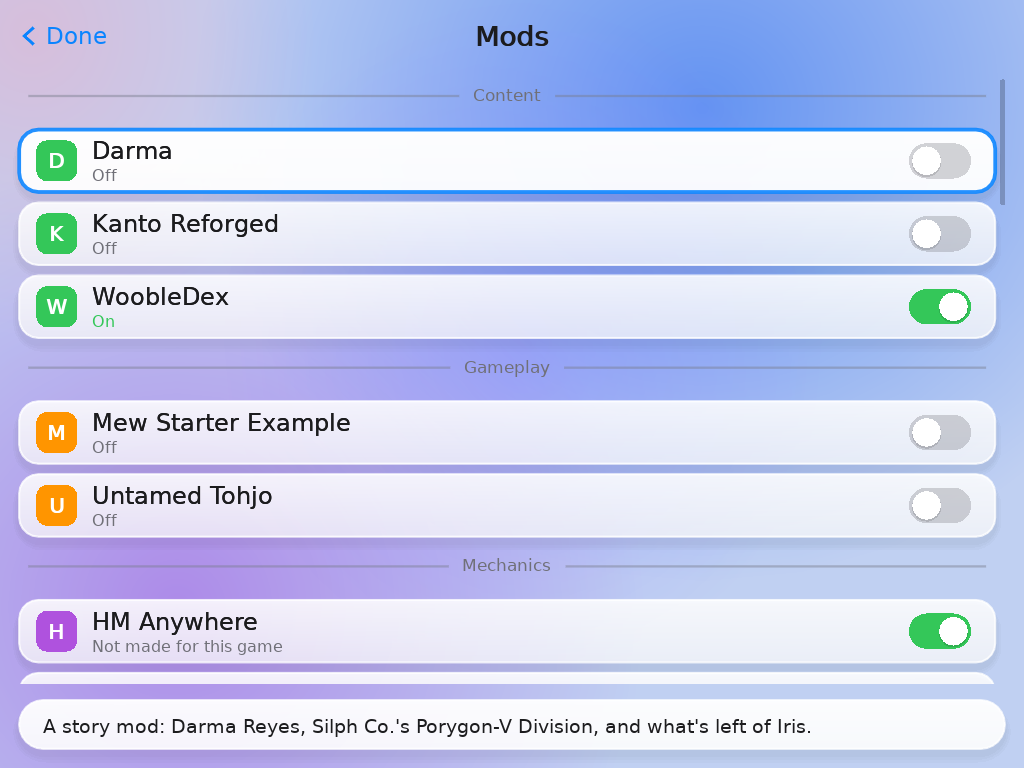
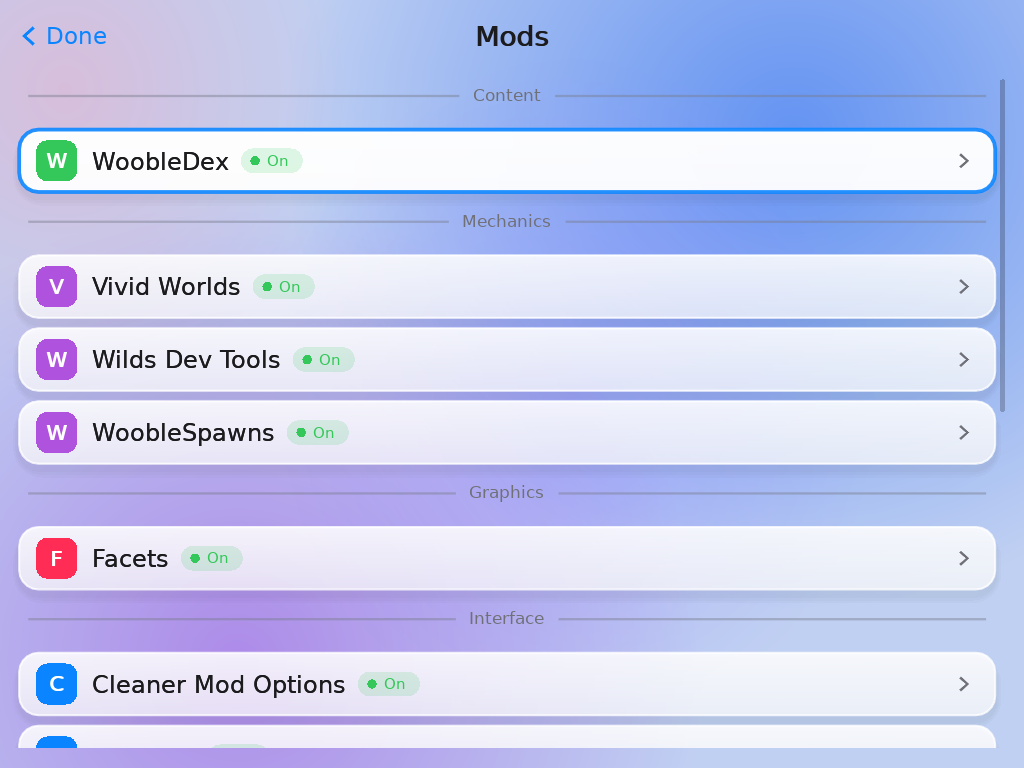
WoobOS 0.27.0

diff --git a/README.md b/README.md
@@ -141,7 +141,7 @@ with Kanto Gear, a battle's menus on its screen.
 Find them under OPTIONS > WOOBOS in the game, or MODS > WoobOS. [Every option](docs/options.md)
 
 OPTIONS and MODS are in glass on every game. Each mod's settings get a page of their own, and the
-installed mods are sorted by kind, each with its switch.
+installed mods are sorted by kind, each marked On or Off.
 
 <table>
   <tr>

diff --git a/CHANGELOG.md b/CHANGELOG.md
@@ -5,6 +5,8 @@ All notable changes to this mod are documented here, in
 
 ## [Unreleased]
 
+## [0.27.0] - 2026-11-23
+
 ### Changed
 - **MODS:** each mod shows an On or Off chip by its name (a green dot or a grey one) and an arrow to its
   page, where its switch is, instead of a switch in the list. The line under a name only appears when it says
